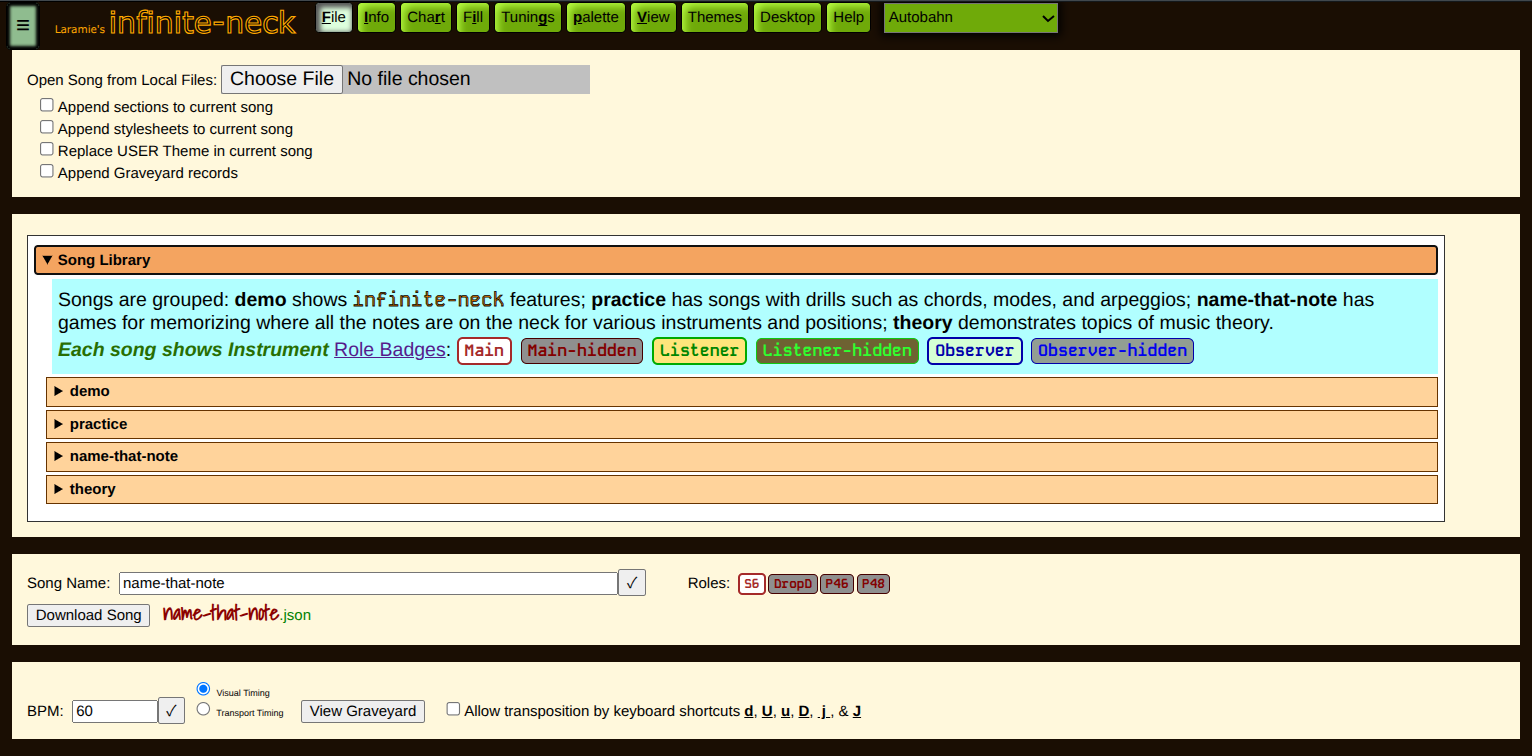
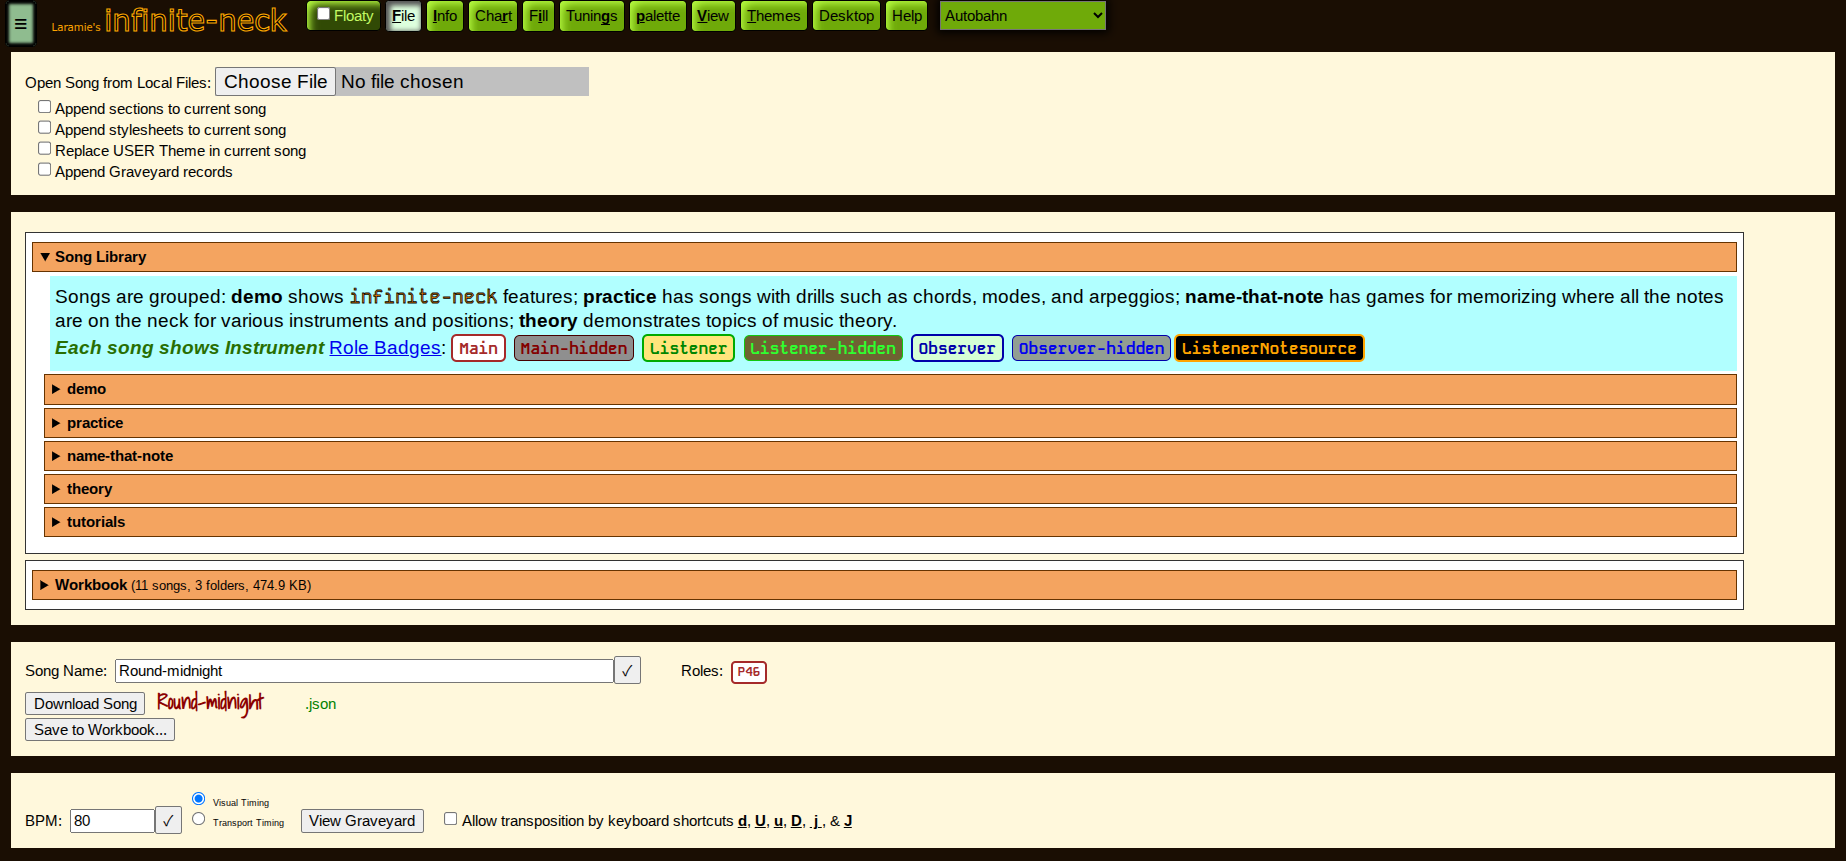
Updated tutorial helpfile topics with screenshots and more discussion of wizard and strict modes.

diff --git a/help.html b/help.html
@@ -1964,7 +1964,17 @@ do Copy/Paste how you might think it does, for example (it uses the ClipPlugin, 
 <h4>strict mode</h4>
 <p>Songs in <b>Song Library &gt; Tutorials</b> are tutorials that hide much of the advanced interface of infinite-neck, and focus on guiding you through a lesson. </p>
 
-<p>They contain Sections as steps in the lesson, and 
+<br>
+<p>Tutorial "strict" mode minimal:
+    <br><br><img src="img/help/context/tutorial-strict-minimal.png"  class="floatingScreenshot" width="900"></p>
+<br>
+<p>Tutorial "strict" mode with navigator open:
+    <br><br><img src="img/help/context/tutorial-strict-navigator.png" class="floatingScreenshot" width="900"></p>
+<br>
+<p>Tutorial "strict" mode with navigator and Tutorial Sections list open:
+    <br><br><img src="img/help/context/tutorial-strict-sections.png" class="floatingScreenshot" width="900"></p>
+
+<p>Tutorials contain Sections as steps in the lesson, and 
 so a simple navigator with looping controls is presented at the top of the page for navigating the lesson topics, and the Transport is
 not used.  
 </p>
@@ -2067,57 +2077,77 @@ not used.
 </p>
 
 <h4>wizard mode</h4>
-<p>If the Song loaded from the Library or local disk is not saved in tutorial "strict" mode, the app won't behave this way. This is because tutorial mode is actually a setting that can be "strict", "wizard", or "none", as selected in the command-line <b>/vpt</b> which you can get to if you are <i><b>not</b></i> in tutorial "strict" mode. This enables you to enter tutorial mode if the song is not saved in tutorial mode.</p>
+<p>If the Song loaded from the Library or local disk is not saved in tutorial "strict" mode, the app won't behave this way. This is because tutorial mode is actually a setting that can be "strict", "wizard", or "none", as selected in the command-line <span class="menuExampleLine"><b>/vpt</b></span> which you can get to if you are <i><b>not</b></i> in tutorial "strict" mode. This enables you to enter tutorial mode if the song is not saved in tutorial mode.</p>
 
-<p>There is also tutorial "wizard" mode accessible from <b>/vpt</b>.  In this mode, you can run many of the tutorial features, but also still have access to advanced features for editing, authoring, changing View, Theme, and Stylesheet settings, and so on.  In fact, from "strict" tutorial mode you can escape to the command-line with the Easter-egg command <span class="key">CTRL-SHIFT-M</span>.  From the command-line, you can set the tutorial mode to something else, like "none" which gets you the full features of infinite-neck, or "wizard" which gives you features of tutorial mode such as "Include in Looping" (selective inclusion of Sections in looping, known as the "practice list" in wizard mode) and tutorial prompts, which are editable in wizard mode.  In "none" mode, you have full access to features, except for the tutorial features.  Wizard mode was designed for authoring tutorials, and for tutorials that teach Users about advanced features.  But it is also the only way you can run with full features and still use "Include in Looping", which is considered too disruptive for normal use such as practicing full songs or giving presentations, since it may be confusing to have the Sections be skipped during looping.  So it is a double opt-in: you must enter wizard mode with <b>/vptw</b>  , and you must use one of the command-line commands to open the "practice list": <b>/vswp</b> or <b>/vtwp</b>.  Attempting to show the "practice list" in "none" or "strict" via <b>/vtwp</b> simply won't show it.  However, in "strict" you automatically get it as part of the prompt area.</p>
+<p>There is also tutorial "wizard" mode accessible from <span class="menuExampleLine"><b>/vpt</b></span>.  In this mode, you can run many of the tutorial features, but also still have access to advanced features for editing, authoring, changing View, Theme, and Stylesheet settings, and so on.  In fact, from "strict" tutorial mode you can escape to the command-line with the Easter-egg command <span class="key">CTRL-SHIFT-M</span>.  From the command-line, you can set the tutorial mode to something else, like "none" which gets you the full features of infinite-neck, or "wizard" which gives you features of tutorial mode such as "Include in Looping" (selective inclusion of Sections in looping, known as the "Practice List" in wizard mode) and tutorial prompts, which are editable in wizard mode.  In "none" mode, you have full access to features, except for the tutorial features.  Wizard mode was designed for authoring tutorials, and for tutorials that teach Users about advanced features.  But it is also the only way you can run with full features and still use "Include in Looping" (the Practice List), which is considered too disruptive for normal use such as practicing full songs or giving presentations, since it may be confusing to have the Sections be skipped during looping.  So it is a double opt-in: you must enter wizard mode with <span class="menuExampleLine"><b>/vtwp</b></span>  , and you must use one of the command-line commands to open the "Practice List": <span class="menuExampleLine"><b>/vswp</b></span> or <span class="menuExampleLine"><b>/vtwp</b></span>.  Attempting to show the "Practice List" in "none" via <span class="menuExampleLine"><b>/vtwp</b></span> simply won't show it.  However, in "strict" you automatically get it as part of the prompt area, and is considered part of the tutorial flow.</p>
 
-<p>In wizard mode when the "practice list" excludes some Sections from looping, the Looper Lights will show with a dashed border, and the LOOP button will show something like "LOOPING 1..3" for example when you have unchecked Sections 4 and later, rather than the normal "LOOPING" caption.  This caption is also visible in "strict" tutorial mode, but the dashed border doesn't appear since "strict" tutorials don't show Looper Lights or Section Status widgets.</p>
+<p>In wizard mode when the "Practice List" excludes some Sections from looping, the Looper Lights will show with a dashed border, and the LOOP button will show something like "LOOPING 1..3" for example when you have unchecked Sections 4 and later, rather than the normal "LOOPING" caption.  This caption is also visible in "strict" tutorial mode, but the dashed border doesn't appear since "strict" tutorials don't show Looper Lights or Section Status widgets.
+    <br>
+    <br>
+    Looper Light when Practice List has excluded Sections:
+    <br>
+    <img src="img/help/context/looper-light-practice-list-green.png">
+    <br>
+    <br>
+    Looper Light while looping and Practice List has excluded Sections:
+    <br>
+    <img src="img/help/context/looper-light-practice-list-magenta.png">
 
-<p>Another feature in wizard mode is that you can edit the tutorial prompts, and can use Section Caption as the tutorial captions.  Both of these are work-arounds because the way "strict" tutorials are created for our Library is there is an authoring build process where text files on the server are edited to contain the lesson plan, the prompts, the captions, and the other settings, and then the tutorial songfile is generated.  But in "wizard" mode, you can turn any song into a tutorial without this build process and simply save the file to your local disk.  This gives you the ability to make tutorials, or to annotate prompts for any songs in the style of "strict" tutorials but with the power-user features of wizard mode.
+
+
+</p>
+
+<p>Another feature in wizard mode is that you can edit the tutorial prompts, and can use Section Caption as the tutorial captions.  Both of these are work-arounds because the way "strict" tutorials are created for our Library is there is an authoring build process where text files on the server are edited to contain the lesson plan, the prompts, the captions, and the other settings, and then the tutorial songfile is generated.  But in "wizard" mode, you can turn any song into a tutorial without this build process and simply save the file to your local disk or to the Workbook.  This gives you the ability to make tutorials, or to annotate prompts for any songs in the style of "strict" tutorials but with the power-user features of wizard mode.  Workbooks can be downloaded, so you can make a Workbook of tutorials, and download and share that Workbook as coursework for a class, for example.
 </p>
 <p>In wizard mode, you create captions and prompts by:</p>
 <ul>
-    <li>Enter wizard mode: <b>/vptw</b></li>
-    <li>Toggle "use Section caption for tutorial" to false: <b>/vpu</b></li>
+    <li>Enter wizard mode: <span class="menuExampleLine"><b>/vptw</b></span></li>
+    <li>Toggle "use Section caption for tutorial" to false: <span class="menuExampleLine"><b>/vpu</b></span></li>
     <li>In a Section, look for the buttons in the prompt area called "Edit Caption" and "Edit Prompt" on the right.</li>
     <li>When you click "Edit Prompt", you can edit the prompt with text or HTML. Leave the edit area to save it (click elsewhere, or TAB out).  "Edit Caption" works the same way for the tutorial caption of the Section, which is plain text.</li>
-    <li>If you would rather use each Section's own Caption as the tutorial caption, toggle "use Section caption for tutorial" to true: <b>/vpu</b>  The "Edit Caption" button then becomes a "&sect; Caption" label, and a Section with no Caption of its own shows a blank caption.</li>
+    <li>If you would rather use each Section's own Caption as the tutorial caption, toggle "use Section caption for tutorial" to true: <span class="menuExampleLine"><b>/vpu</b></span>.  The "Edit Caption" button then becomes a "&sect; Caption" label, and a Section with no Caption of its own shows a blank caption.</li>
     <li>Now use the Section Drawer to add a Caption to the Sections you want to have Captions. <b></b></li>
     <li>Now when you navigate, you'll have prompts and Captions.</li>
-    <li>To set the main tutorial caption (<code>Song.tutorial.caption</code>), which heads the prompt area in "wizard" and "strict" modes, use <b>/vpe</b> (<b>e</b>dit tutorial main caption).  The box holds the current caption.  It is plain text: tags are removed, HTML entities such as <code>&amp;amp;</code> are turned into the character, and <code>\"</code> means a quote mark.  It works in every tutorial mode.  Press ENTER twice to leave the box without changing it.  It is never used as the caption of a Section.</li>
-    <li>"use Section caption for tutorial" is saved with the Song, so it is still on when you load the file later.</li>
+    <li>To set the main tutorial caption (<code>Song.tutorial.caption</code>), which heads the prompt area in "wizard" and "strict" modes, use <span class="menuExampleLine"><b>/vpe</b></span> (<b>e</b>dit tutorial main caption).  When editing, it is plain text: tags are removed, HTML entities such as <code>&amp;amp;</code> are turned into the character, and <code>\"</code> means a quote mark.  It works in every tutorial mode.  Press ENTER twice to leave the box without changing it.  It is never used as the caption of a Section.</li>
+    <li><b>"use Section caption for tutorial"</b> is saved with the Song, so its value persists when you load the file later.</li>
     <li>If you are a tutorial author, and are using the build process tools, be aware that running <b>npm run build:tutorial-prompts</b> will overwrite the prompts you have saved in the above way.  The build process stores tutorial Captions in a separate location from Section Captions, however.</li>
 </ul> 
-<p>Note that doing it this way, and then using the next steps, you can create a "strict" mode tutorial songfile you can save and share (without the build process).  Choose whether the Tutorial Captions come from the Section Captions with <b>/vpu</b>.  The Tutorial Prompts can be added/edited in wizard mode with the "Edit Prompt" button.  If you have <b>/vpu</b> set to false, then you can also add/edit the Tutorial Section Captions with the "Edit Caption" button.    As long as you don't use the build process from the system shell and the "npm" Node tool as a developer, these Prompts will persist. Steps to save your song as a "strict" tutorial:</p>
+<p>Note that doing it this way, and then using the next steps, you can create a "strict" mode tutorial songfile you can save and share (without the build process).  Choose whether the Tutorial Captions come from the Section Captions with <span class="menuExampleLine"><b>/vpu</b></span>.  The Tutorial Prompts can be added/edited in wizard mode with the "Edit Prompt" button.  If you have <span class="menuExampleLine"><b>/vpu</b></span> set to false, then you can also add/edit the Tutorial Section Captions with the "Edit Caption" button.    As long as you don't use the build process from the system shell and the "npm" Node tool as a developer, these Prompts will persist. Steps to save your song as a "strict" tutorial:</p>
 <ul>
-<li>From the command-line, set "strict" mode: <b>/vpts</b></li>
-<li>Now, before you close the command-line, download the file from the command-line before you close it: <b>/fd</b>, since you can't get to the File menu button to download the file in strict mode.</li>
+<li>From the command-line, set "strict" mode: <span class="menuExampleLine"><b>/vpts</b></span></li>
+<li>Now, before you close the command-line, download the file from the command-line before you close it: <span class="menuExampleLine"><b>/fd</b></span>, since you can't get to the File menu button to download the file in strict mode.</li>
 <li>If you do exit the command-line, you can sneak back in with command <span class="key">CTRL-SHIFT-M</span></li>
 </ul>  
 
 <a name="TutorialAuthorChecklist"></a>
 <h3>Tutorial Author Checklist</h3>
 
-<p>For wizard mode tutorials</p>
+<h4>For wizard mode tutorials:</h4>
 <ul>
-    <li>edit tutorial main caption: /vpe</li>
+    <li>edit tutorial main caption: <span class="menuExampleLine"><b>/vpe</b></span></li>
     <li>edit tutorial captions for each Section</li>
     <li>edit tutorial prompts for each Section</li>
-    <li>Set fullscreen Instrument Caption to hidden: /vf -> /vhwi</li>
-    <li>Set non-fullscreen Instrument Caption rows to hidden: /vf -> /vhwi</li>
+    <li>Choose whether to set fullscreen Instrument Caption to hidden: <span class="menuExampleLine"><b>/vt</b></span> -> <span class="menuExampleLine"><b>/vhwi</b></span></li>
+    <li>Choose whether to set non-fullscreen Instrument Caption rows to hidden: <span class="menuExampleLine"><b>/vf</b></span> -> <span class="menuExampleLine"><b>/vhwi</b></span></li>
     <li>Choose whether to hide Song title, widget row, etc.</li>
-    <li>Set wizard mode:  /vptw</li>
-    <li>Download file before exiting command-line: /fd</li>
+    <li>Set wizard mode:  <span class="menuExampleLine"><b>/vptw</b></span></li>
+    <li>Download file before exiting command-line: <span class="menuExampleLine"><b>/fd</b></span></li>
+    <li>Or, open the <a href="#divFileControls">File menu page</a>, and save it to the Workbook</li>
 </ul>
 
-<p>For strict mode tutorials</p>
+<h4>For strict mode tutorials:</h4>
+
+<p>For strict mode tutorials, you do not need to hide Song title, widget row, instrument caption row, etc. which are hidden in strict mode.  However, if you are authoring in wizard mode, to get all the strict mode rules to apply, you should save the Song to local disk or to the Workbook, then re-open it. 
+</p> 
+
 <ul>
-    <li>edit tutorial main caption: /vpe</li>
+    <li>edit tutorial main caption: <span class="menuExampleLine"><b>/vpe</b></span></li>
     <li>edit tutorial captions for each Section</li>
     <li>edit tutorial prompts for each Section</li>
-    <li>(You should not need to hide Song title, widget row, instrument caption row, etc. which are hidden in strict mode.)</li>
-    <li>Set strict mode:  /vpts</li>
-    <li>Download file before exiting command-line: /fd</li>
+    <li>If you will be saving it to the Workbook, open the <a href="#divFileControls">File menu page</a> now <span class="menuExampleLine"><b>/f;</b></span>, and leave it open while you go to the command-line. </li>
+    <li>Set strict mode:  <span class="menuExampleLine"><b>/vpts</b></span></li>
+    <li>Download file before exiting command-line: <span class="menuExampleLine"><b>/fd</b></span></li>
+    <li>Or, save the Song to the Workbook now with the <a href="#divFileControls">File menu page</a> button <span class="GUIReferenceInline">Save to Workbook...</span> (might need to <span class="menuExampleLine"><b>x</b></span> out of the command line to get it out of the way).</li>
 </ul>
 
 <hr>
@@ -6223,7 +6253,7 @@ to hide menus and the <a href="#commandline">command-line</a>.</p>
                 </td>
                 <td>
                 </td>
-                <td>show/hide File menu page
+                <td>show/hide <a href="#divFileControls">File menu page</a>
                 </td>
             </tr>
             <tr id="showHideSection">
@@ -6370,7 +6400,7 @@ to hide menus and the <a href="#commandline">command-line</a>.</p>
                 </td>
                 <td>
                 </td>
-                <td>show File menu page
+                <td>show <a href="#divFileControls">File menu page</a>
                 </td>
             </tr>
             
